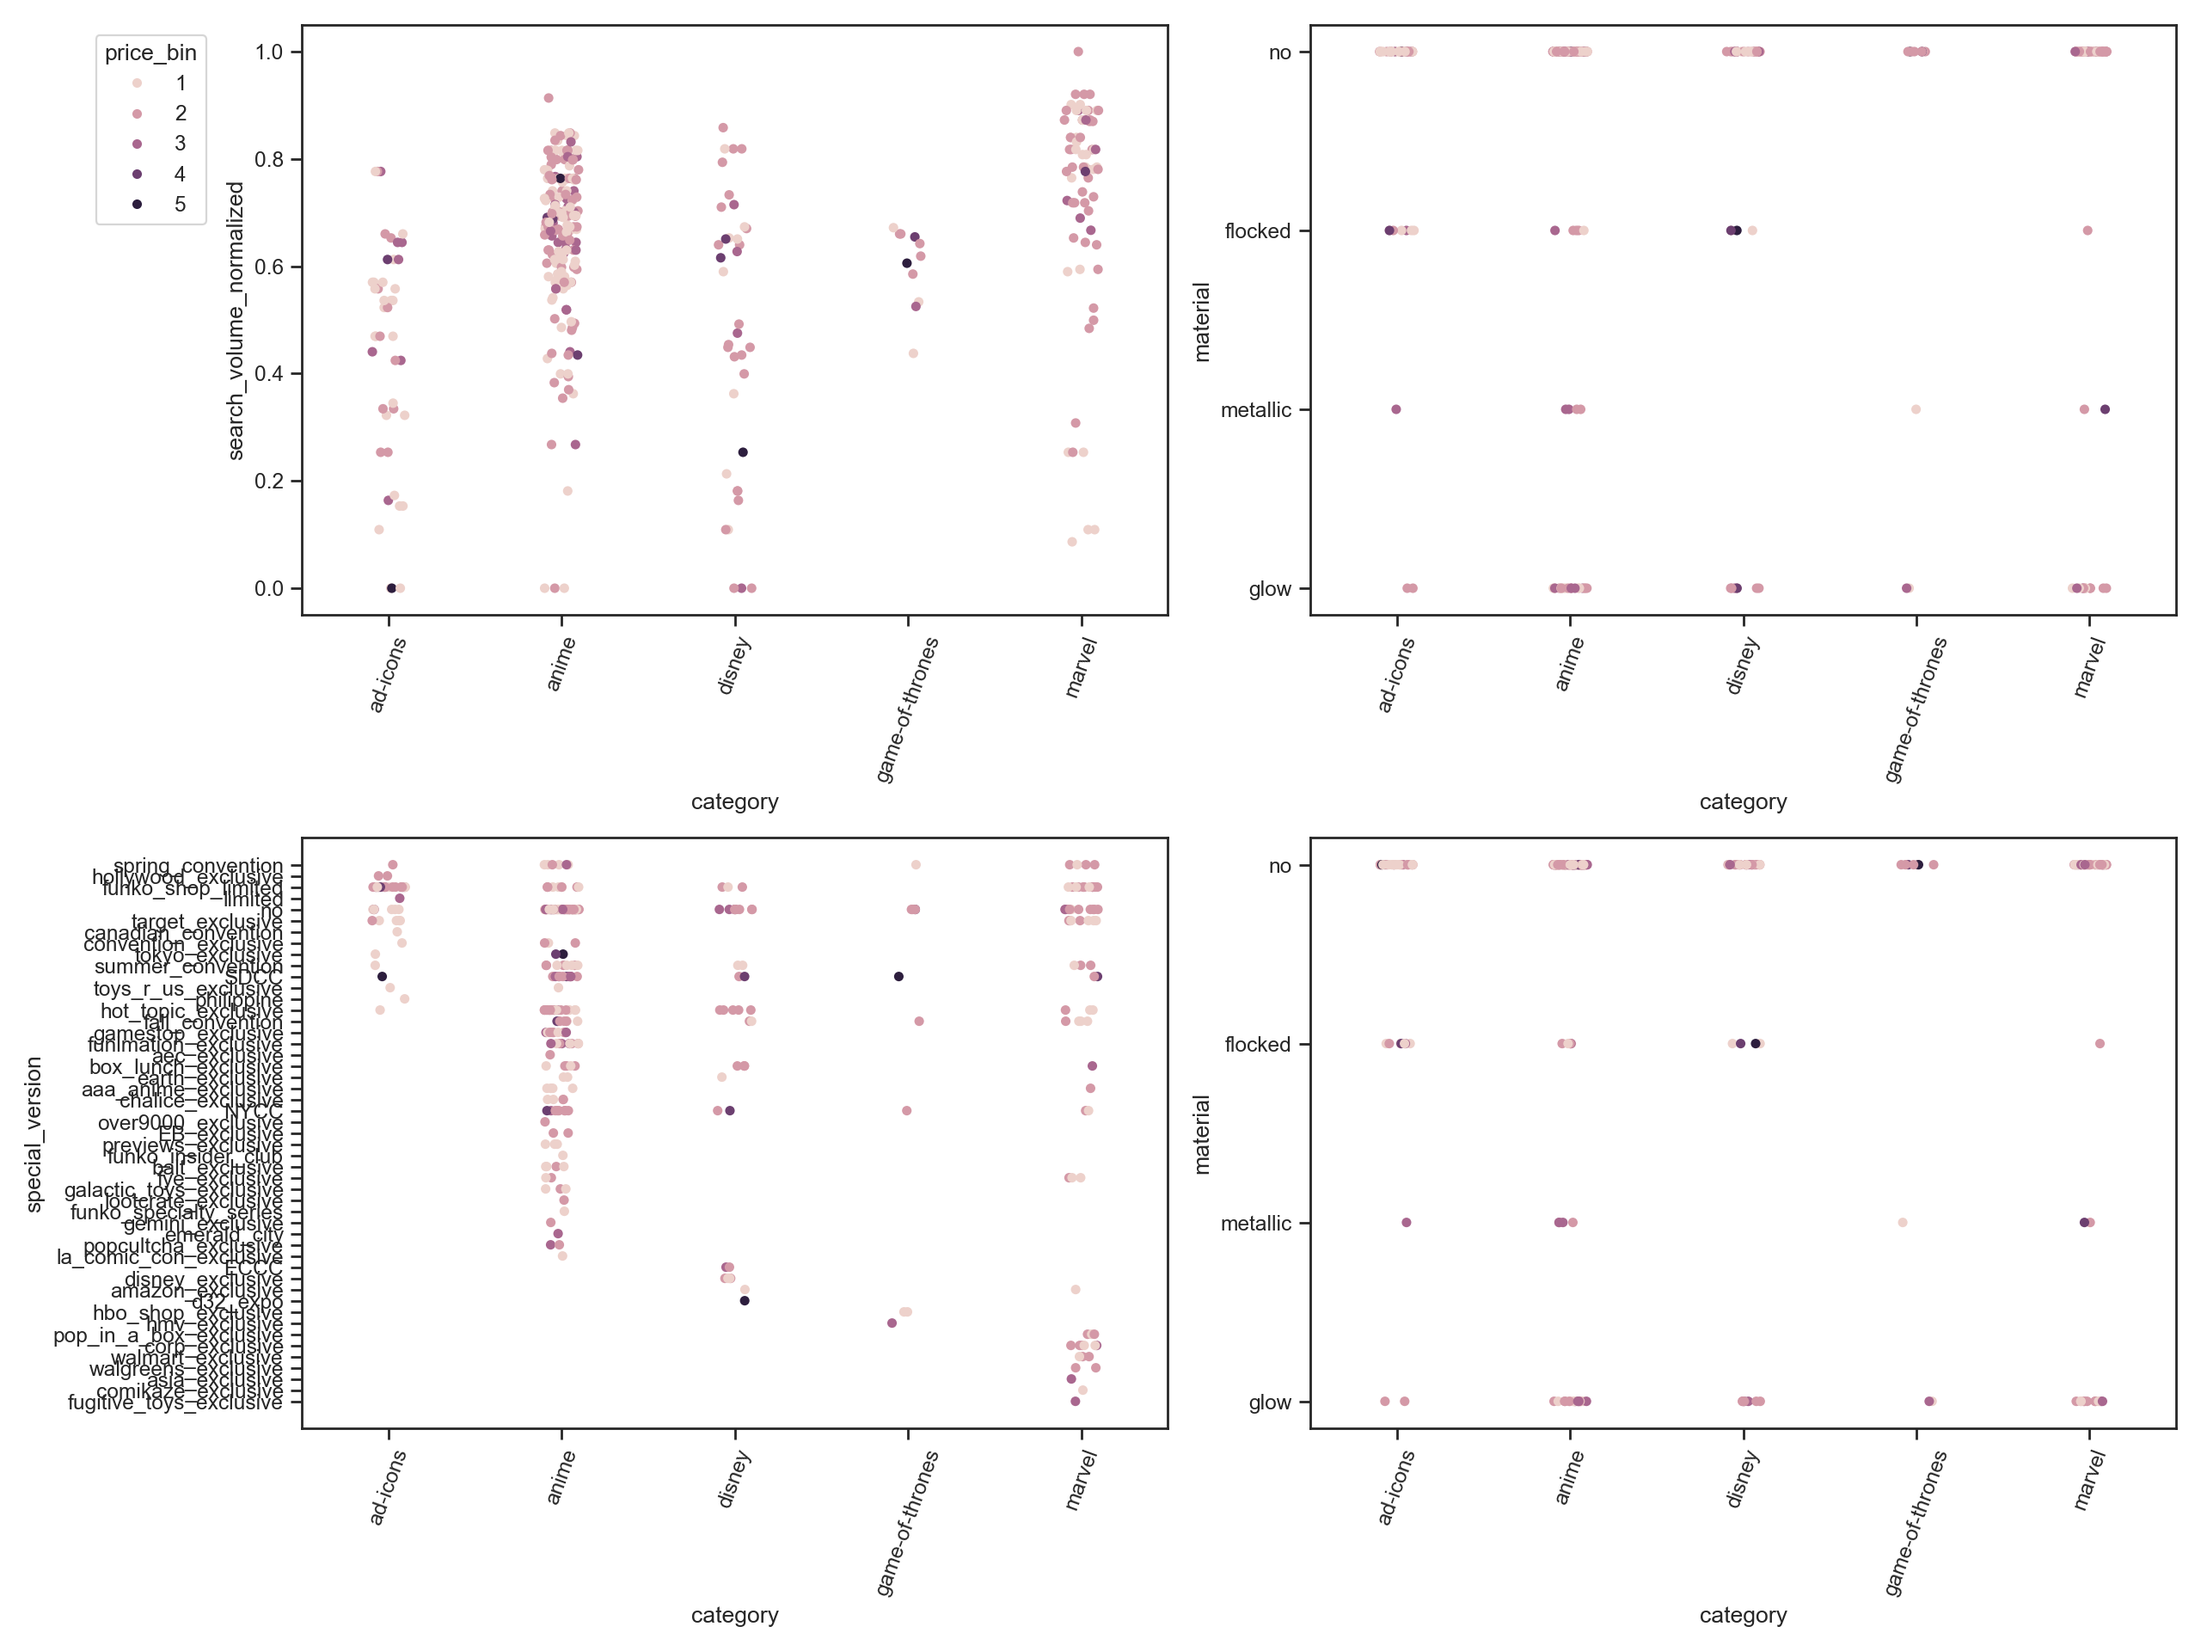
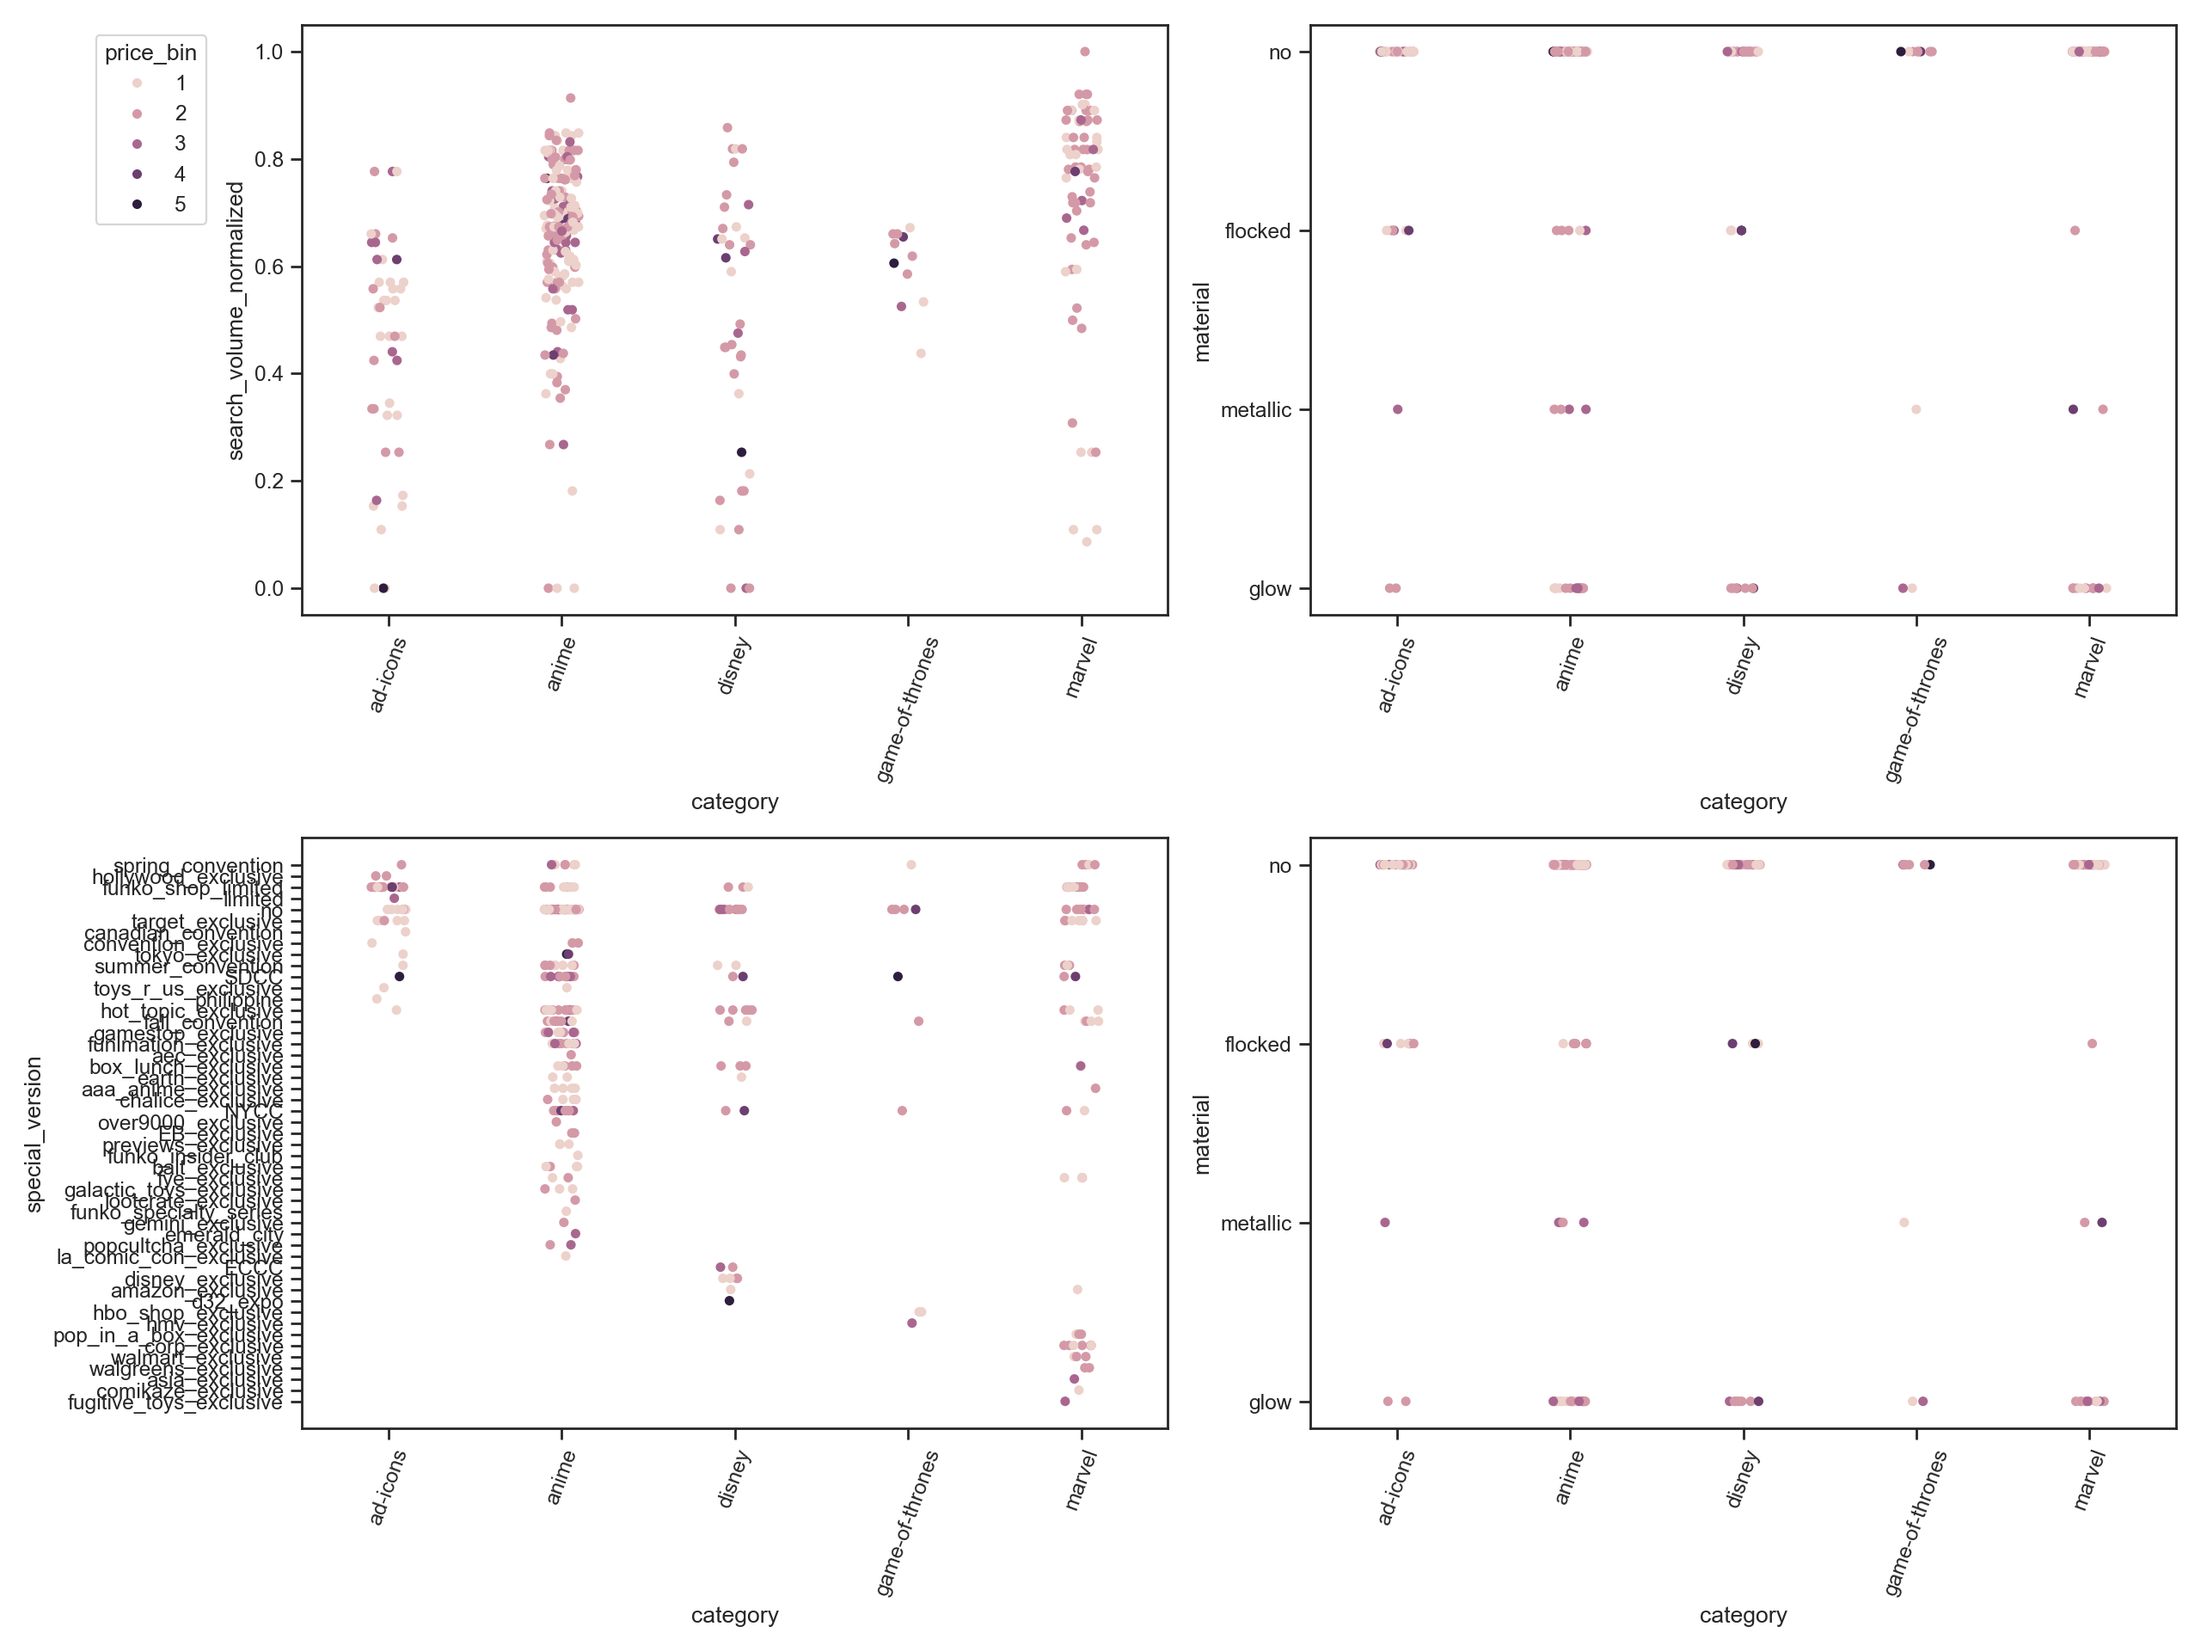
refactor: make reproduction pipeline self-contained

diff --git a/project/src/preprocessing.py b/project/src/preprocessing.py
@@ -17,14 +17,7 @@ MODEL_FEATURES = NUMERIC_FEATURES + CATEGORICAL_FEATURES
 
 
 def default_data_path() -> Path:
-    return (
-        Path(__file__).resolve().parents[2]
-        / "CS229-master"
-        / "project"
-        / "src"
-        / "data_sourcing"
-        / "data_curated.csv"
-    )
+    return Path(__file__).resolve().parents[1] / "data" / "data_curated.csv"
 
 
 def load_curated_data(data_path: Path | str | None = None) -> pd.DataFrame:

diff --git a/REPRODUCTION_NOTES.md b/REPRODUCTION_NOTES.md
@@ -1,6 +1,6 @@
 # Reproduction Notes
 
-This reproduction keeps the original reference files under `CS229-master/` untouched and places the runnable, organized implementation under `project/`.
+The runnable, organized implementation lives under `project/` and is self-contained: it does not need the original reference repository (`CS229-master/`), which is kept only for reference.
 
 ## Compatibility fixes
 
@@ -10,7 +10,7 @@ This reproduction keeps the original reference files under `CS229-master/` untou
 
 ## Preserved methodology
 
-- Uses the provided curated dataset at `CS229-master/project/src/data_sourcing/data_curated.csv`.
+- Uses the curated dataset at `project/data/data_curated.csv` (copied unchanged from the reference repository's `project/src/data_sourcing/data_curated.csv`; the code no longer reads from `CS229-master/`).
 - Does not scrape StockX or use any external data.
 - Uses the reference logarithmic five-bin target construction.
 - Uses `log(search_volume)` min-max normalization.

diff --git a/README.md b/README.md
@@ -1,10 +1,10 @@
 # Application of Machine Learning Methods to Evaluate Collectibles
 
-This repository reproduces the reference CS229 Funko Pop collectible-pricing experiments using the provided curated dataset. The original files remain under `CS229-master/`; the clean, runnable reproduction is under `project/`.
+This repository reproduces the reference CS229 Funko Pop collectible-pricing experiments using the curated dataset bundled in this repository. The reproduction is self-contained under `project/` and does not require the original `CS229-master` repository.
 
 ## Dataset
 
-The reproduction uses `CS229-master/project/src/data_sourcing/data_curated.csv`. No new data is scraped, and the dataset is not replaced.
+The reproduction uses `project/data/data_curated.csv` (originally taken unchanged from the reference repository's `project/src/data_sourcing/`). No new data is scraped. A different file can be used via `--data-path`.
 
 ## Methodology
 
